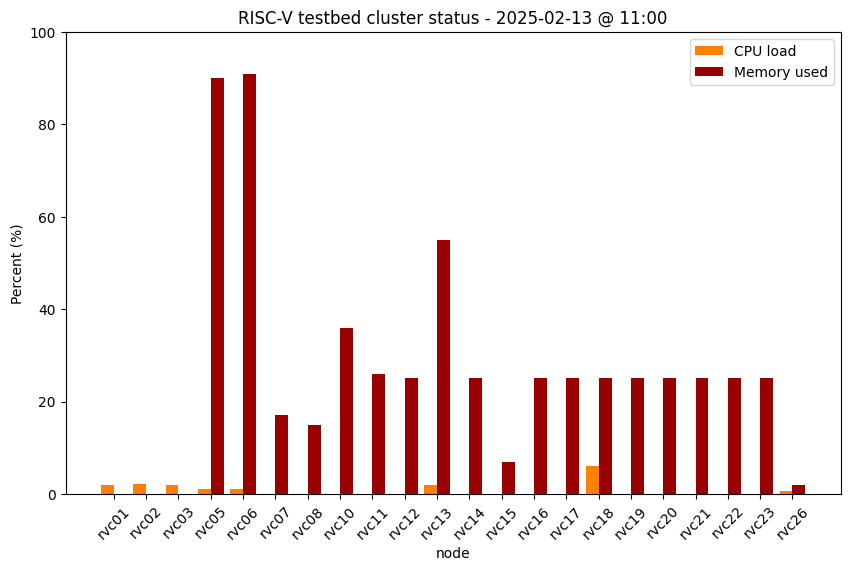
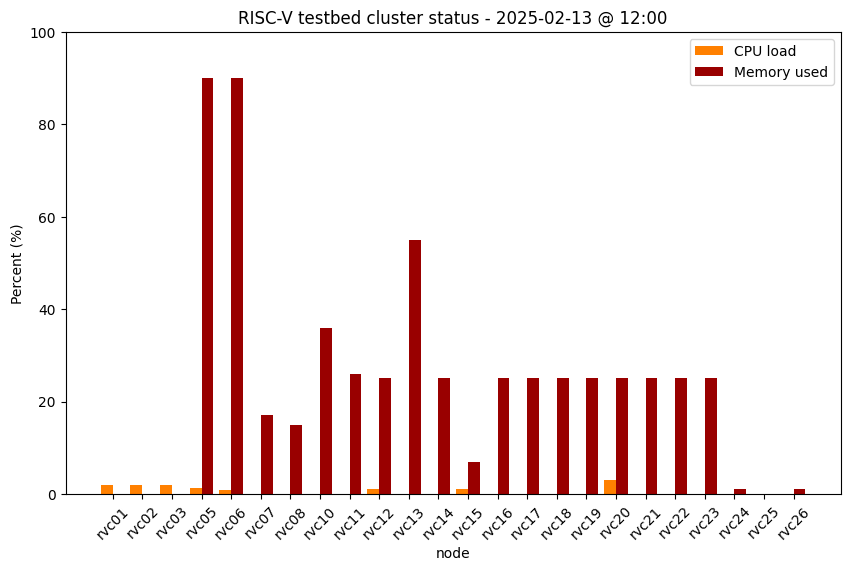
Update cluster status

Changed region(s): [[0.1224, 0.1191, 0.9482, 0.9527]]

diff --git a/status.md b/status.md
@@ -36,7 +36,7 @@ permalink: /status/
 | StarFive VisionFive V2 #11 | rvc21 | 4 | 8GB | <img src="/images/on.png" alt="green light" width="10"/> up |
 | StarFive VisionFive V2 #12 | rvc22 | 4 | 8GB | <img src="/images/on.png" alt="green light" width="10"/> up |
 | StarFive VisionFive V2 #13 | rvc23 | 4 | 8GB | <img src="/images/on.png" alt="green light" width="10"/> up |
-| Milk-V Pioneer #1 | rvc24 | 64 | 128GB | <img src="/images/off.png" alt="red light" width="10"/> down |
-| Milk-V Pioneer #2 | rvc25 | 64 | 128GB | <img src="/images/off.png" alt="red light" width="10"/> down |
+| Milk-V Pioneer #1 | rvc24 | 64 | 128GB | <img src="/images/on.png" alt="green light" width="10"/> up |
+| Milk-V Pioneer #2 | rvc25 | 64 | 128GB | <img src="/images/on.png" alt="green light" width="10"/> up |
 | Milk-V Pioneer #3 | rvc26 | 64 | 128GB | <img src="/images/on.png" alt="green light" width="10"/> up |
 
